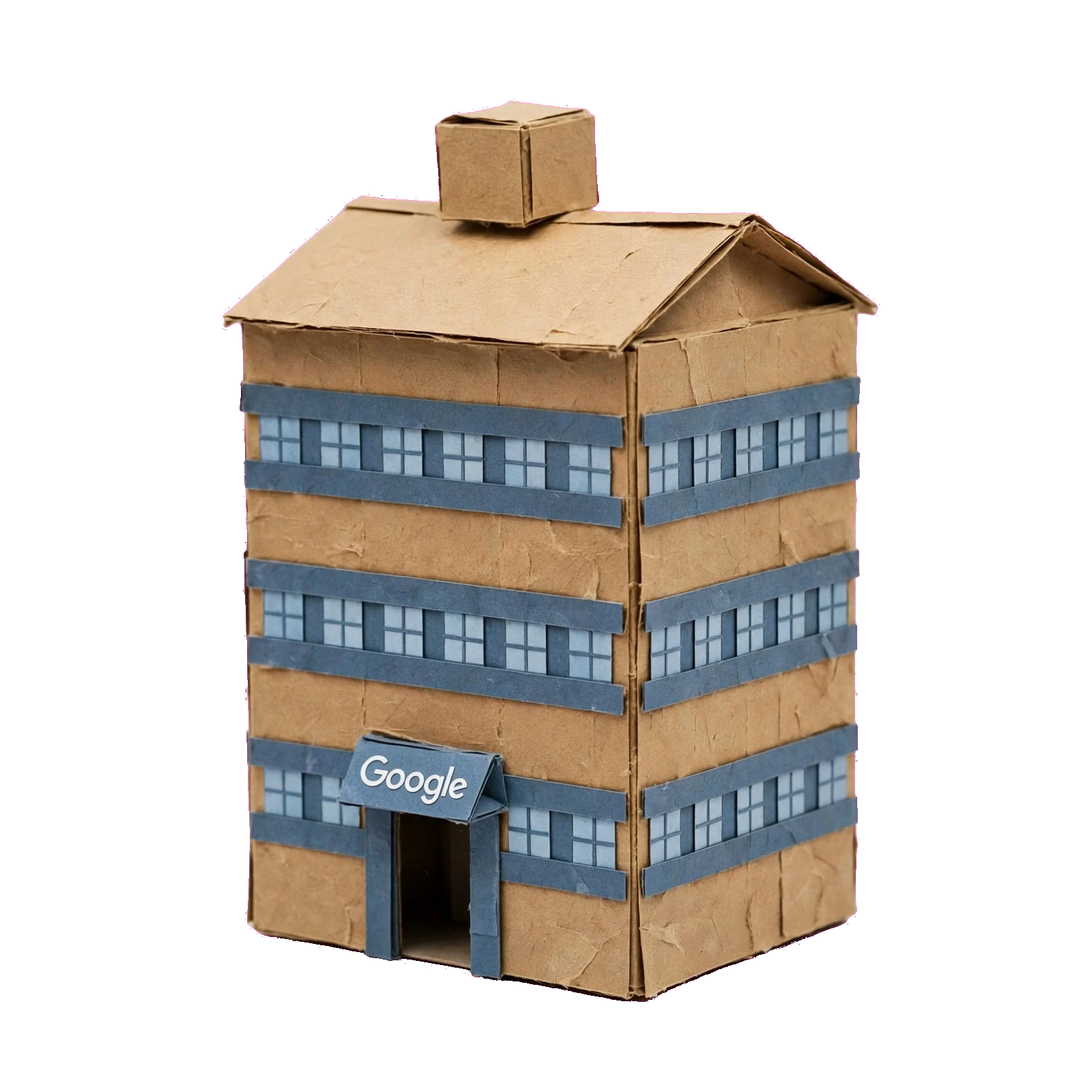
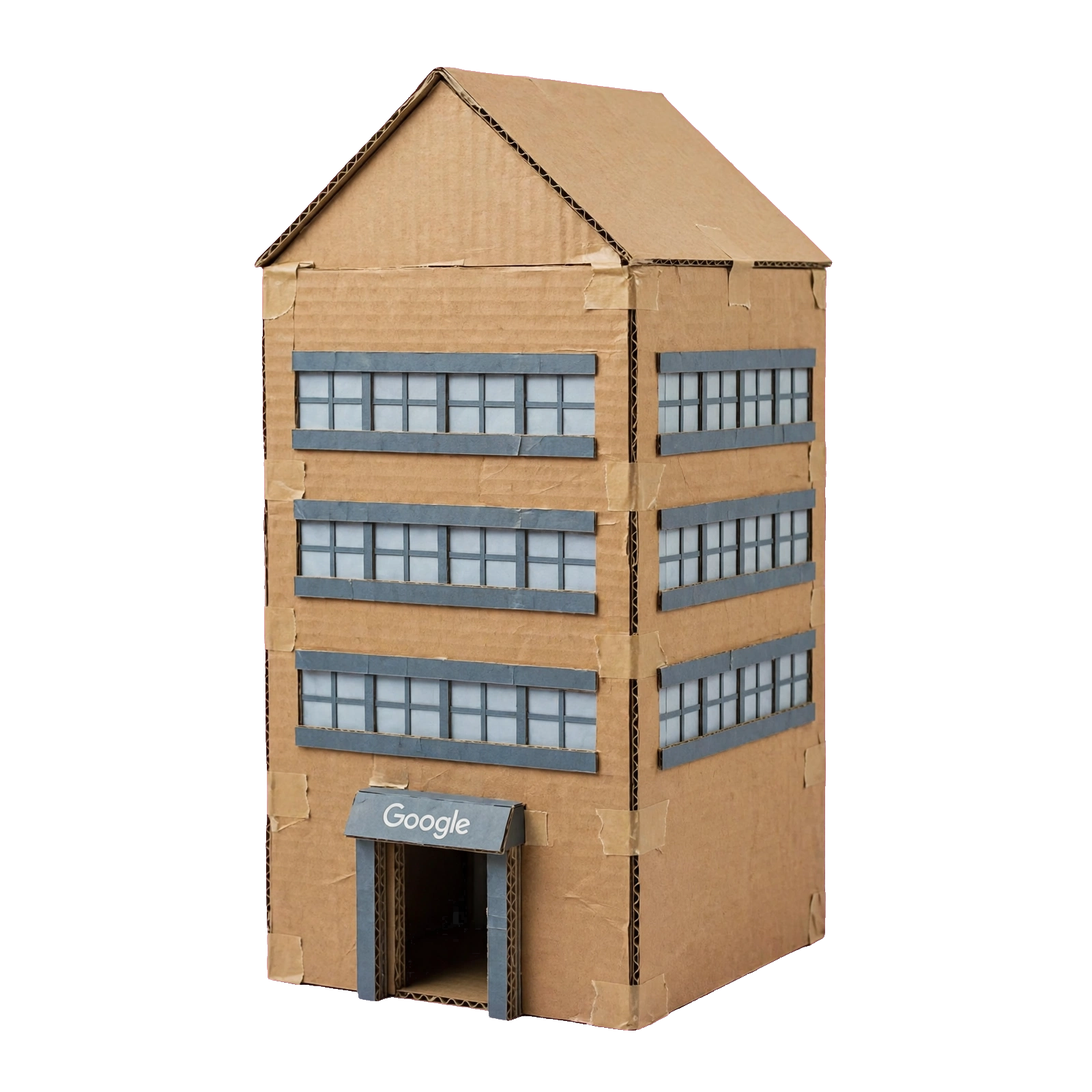
v137: no-crate building swap (seat re-derived, span travel 0.08px); slides caption updated

diff --git a/dashboard/quadrillion/index.html b/dashboard/quadrillion/index.html
@@ -2888,7 +2888,7 @@ document.getElementById('t1vclone').addEventListener('click', function () { t1Vo
 .rn-flash{left:3.59%;top:25.48%;width:92.82%;aspect-ratio:1;border-radius:50%;background:radial-gradient(circle,rgba(255,253,244,.98) 0%,rgba(255,243,214,.72) 32%,rgba(255,222,160,.28) 62%,rgba(255,222,160,0) 78%);z-index:3;opacity:0}.rn-ring{left:-10.64%;top:9.86%;width:121.29%;aspect-ratio:1;border-radius:50%;background:radial-gradient(circle,transparent calc(88% - var(--band,7%)),rgba(255,244,220,.9) 88%,transparent calc(88% + var(--band,7%)));z-index:3;opacity:0}.rn-tag{z-index:3;opacity:0}.rn-mtn{left:3.51%;top:32.83%;width:66.00%;z-index:2;transform-origin:50% 100%;opacity:0}.rn-ban{left:20.02%;top:40.35%;width:63.95%;z-index:3;transform-origin:50% 0;opacity:0}.rn-halls{left:44.60%;top:74.75%;width:52.00%;z-index:3;transform-origin:50% 100%;opacity:0}
 .rn-hall1{position:absolute;cursor:pointer;background:none;border:none;padding:0;margin:0;line-height:0;min-height:0;z-index:3;opacity:0}
 .rn-hall1 img{width:100%;height:auto;display:block}
-.rn-rib{left:47.30%;top:16.51%;width:26.00%;z-index:4;transform-origin:50% 100%;opacity:0}.rn-pile{left:41.51%;top:49.83%;width:46.00%;z-index:3;transform-origin:50% 100%;opacity:0}.rn-bld{left:21.55%;top:6.33%;width:53.22%;z-index:3;transform-origin:50% 100%;opacity:0}.rn-gword{left:26.91%;top:-6.04%;width:42.33%;z-index:4;transform-origin:50% 100%;opacity:0} /* v116: the GOOGLE word seat — subject 40.00% wide centred on the building settled centre (48.16% live), subject base at live 41.6%, hanging clear BELOW the roof subject top (34.65%) so the letters never touch the little roof box — the word floats in front of the building face, big, above its base (v116 frame cure: at the roof line the letters struck the roof box) */.rn-city{left:18.85%;top:15.77%;width:62.00%;z-index:3;transform-origin:50% 100%;opacity:0} /* v116 CURE (owner screenshots 17/18): the DIFFERENT street city, seated contained — subject spans 24.7-78.2% of stage width (inside the curtain inner edges), subject base on the platform far edge; origin 50% 100% keeps the base planted through the pose growth */.rn-b23{left:63.54%;top:15.18%;width:15.69%;z-index:5;transform-origin:50% 0;opacity:0} /* v116: the sign reads 2024 (owner years correction, executed as stated); seat re-derived from the new file subject so the SUBJECT keeps its verified size and centre */.rn-b25{left:37.33%;top:5.74%;width:38.25%;z-index:5;transform-origin:50% 0;opacity:0}.rn-hclip{position:absolute;overflow:hidden}.rn-hclip img{width:100%;height:auto;display:block}.rn-hb{left:44.60%;top:74.75%;width:52.00%;z-index:2} /* v111: during the finale (t>=29.80) both halls layers are re-seated by the pose to the stepped-down standing seat (left 50.68% · top 22.72% · width 40%) — see the halls pose */.rn-hf{left:44.60%;top:74.75%;width:52.00%;z-index:3}.rn-ring2{left:13.11%;top:44.07%;width:73.78%;z-index:1;transform-origin:50% 100%;opacity:0}.rn-toast{left:57.35%;top:51.65%;width:34.60%;z-index:3;transform-origin:50% 100%;opacity:0}.rn-tagw{position:absolute;width:7.0%;z-index:6;opacity:0;pointer-events:none}.rn-tagw img{width:100%;height:auto;display:block}.rn-tok{z-index:3;opacity:0}.rn-shards{position:absolute;inset:0;z-index:2;pointer-events:none}.rn-shard{position:absolute;pointer-events:auto;cursor:pointer;opacity:0}.rn-box{z-index:9} /* v113 CURE: the side boxes stand IN FRONT of the curtains (owner order 2026-11-05; curtains z8) */
+.rn-rib{left:47.30%;top:16.51%;width:26.00%;z-index:4;transform-origin:50% 100%;opacity:0}.rn-pile{left:41.51%;top:49.83%;width:46.00%;z-index:3;transform-origin:50% 100%;opacity:0}.rn-bld{left:23.57%;top:8.23%;width:49.86%;z-index:3;transform-origin:50% 100%;opacity:0}.rn-gword{left:26.91%;top:-6.04%;width:42.33%;z-index:4;transform-origin:50% 100%;opacity:0} /* v116: the GOOGLE word seat — subject 40.00% wide centred on the building settled centre (48.16% live), subject base at live 41.6%, hanging clear BELOW the roof subject top (34.65%) so the letters never touch the little roof box — the word floats in front of the building face, big, above its base (v116 frame cure: at the roof line the letters struck the roof box) */.rn-city{left:18.85%;top:15.77%;width:62.00%;z-index:3;transform-origin:50% 100%;opacity:0} /* v116 CURE (owner screenshots 17/18): the DIFFERENT street city, seated contained — subject spans 24.7-78.2% of stage width (inside the curtain inner edges), subject base on the platform far edge; origin 50% 100% keeps the base planted through the pose growth */.rn-b23{left:63.54%;top:15.18%;width:15.69%;z-index:5;transform-origin:50% 0;opacity:0} /* v116: the sign reads 2024 (owner years correction, executed as stated); seat re-derived from the new file subject so the SUBJECT keeps its verified size and centre */.rn-b25{left:37.33%;top:5.74%;width:38.25%;z-index:5;transform-origin:50% 0;opacity:0}.rn-hclip{position:absolute;overflow:hidden}.rn-hclip img{width:100%;height:auto;display:block}.rn-hb{left:44.60%;top:74.75%;width:52.00%;z-index:2} /* v111: during the finale (t>=29.80) both halls layers are re-seated by the pose to the stepped-down standing seat (left 50.68% · top 22.72% · width 40%) — see the halls pose */.rn-hf{left:44.60%;top:74.75%;width:52.00%;z-index:3}.rn-ring2{left:13.11%;top:44.07%;width:73.78%;z-index:1;transform-origin:50% 100%;opacity:0}.rn-toast{left:57.35%;top:51.65%;width:34.60%;z-index:3;transform-origin:50% 100%;opacity:0}.rn-tagw{position:absolute;width:7.0%;z-index:6;opacity:0;pointer-events:none}.rn-tagw img{width:100%;height:auto;display:block}.rn-tok{z-index:3;opacity:0}.rn-shards{position:absolute;inset:0;z-index:2;pointer-events:none}.rn-shard{position:absolute;pointer-events:auto;cursor:pointer;opacity:0}.rn-box{z-index:9} /* v113 CURE: the side boxes stand IN FRONT of the curtains (owner order 2026-11-05; curtains z8) */
 .rn-play{z-index:9}
 .rn-bar{position:fixed;left:0;right:0;bottom:0;z-index:66;background:rgba(10,14,22,.97);border-top:1px solid rgba(255,255,255,.16);backdrop-filter:blur(10px);-webkit-backdrop-filter:blur(10px);padding:8px 10px calc(8px + env(safe-area-inset-bottom,0px))}
 .rn-bar[hidden]{display:none}
@@ -4635,7 +4635,7 @@ function rnPose(t){
    if(elSeal){ /* v76: the PROCESSED seal — born whole in the impact frame (2.24s), rides the band's rise/settle/exit factors exactly (shared claim-centre origin), constant −8° lean (row u1-p1-processed-seal) */
      elSeal.style.opacity=t<2.34?'0':opC;
      elSeal.style.transform='translateY('+(Math.round(30*stP)/10)+'px) scale('+stS.toFixed(3)+') rotate(-8deg)'; } if(elMtn){ var mP=rnGrow(t,14.08,14.68), mO=mP, mEx=0, mS=0.85+0.15*mP, mX=0; if(t>=19.40&&t<20.58){ var mq=Math.min(1,(t-19.40)/0.5); mS=1-0.4326*mq; mX=-172*mq; } if(t>=20.58&&t<29.80){ mO=mP; mS=0.5674; mX=-172; } if(t>=29.80){ var mp7=rnGrow(t,29.80,30.30); mO=mp7; mS=0.5674; mX=-172; mEx=0; } elMtn.style.zIndex=(t>=19.40)?'9':'2'; /* v111: the mountain keeps its window layer in the finale — in front, never buried under the halls */ elMtn.style.opacity=mO.toFixed(3); elMtn.style.transform='translate('+mX.toFixed(1)+'px,'+((1-mP)*-53+mEx).toFixed(1)+'px) scale('+mS.toFixed(3)+')'; } if(elBan){ var bP=rnGrow(t,14.33,14.73), bO=0; if(t>=14.33){ bO=bP; if(t>=18.46&&t<19.40){ bO=bP*(1-Math.min(1,(t-18.46)/0.3)); } if(t>=19.40&&t<29.80){ var bq=Math.min(1,(t-19.40)/0.5); bO=bP*bq; } if(t>=29.80){ bO=0; } } elBan.style.opacity=bO.toFixed(3); if(t>=19.40&&t<29.80){ elBan.style.left='-2.44%'; elBan.style.top='85.09%'; elBan.style.width='46.05%'; } else { elBan.style.left='20.02%'; elBan.style.top='40.35%'; elBan.style.width='63.95%'; } /* v111: the banner is OUT of the finale — its moment ended at tokens; the v98-era return seat made it re-appear over everything at 29.80s */ elBan.style.transform='scaleY('+(0.3+0.7*bP).toFixed(3)+')'; } if(elHallsB&&elHallsF){ var hbP=rnGrow(t,19.40,20.05), hfP=rnGrow(t,19.72,20.37), hAll=1, h7=0; if(t>=20.58&&t<29.80){ hAll=1; } if(t>=29.80){ h7=rnGrow(t,29.80,30.20); } var hbI='inset('+(100-89.55*Math.max(hbP,h7)).toFixed(2)+'% 0% 0% '+(5.18+89.71*(1-Math.max(hbP,h7))).toFixed(2)+'%)'; var hfI='inset('+(100-74.37*Math.max(hfP,h7)).toFixed(2)+'% '+(4.11+90.71*(1-Math.max(hfP,h7))).toFixed(2)+'% 0% 0%)'; var hCmp=(t>=19.40&&t<29.80&&t>=21.08)?1:0; /* v110: the sketch pyramid owns the WHOLE window to 29.80 — the flat halls drape, which sprawled over the platform front and covered the mountain, never returns inside it */ elHallsB.style.opacity=(Math.max(hbP*hAll*hCmp,h7)).toFixed(3); elHallsB.style.clipPath=hbI; elHallsF.style.opacity=(Math.max(hfP*hAll*hCmp,h7)).toFixed(3); elHallsF.style.clipPath=hfI; if(t>=29.80){ elHallsB.style.left='42.22%'; elHallsB.style.top='22.72%'; elHallsB.style.width='37.00%'; elHallsF.style.left='42.22%'; elHallsF.style.top='22.72%'; elHallsF.style.width='37.00%'; } else { elHallsB.style.left='44.60%'; elHallsB.style.top='74.75%'; elHallsB.style.width='52.00%'; elHallsF.style.left='44.60%'; elHallsF.style.top='74.75%'; elHallsF.style.width='52.00%'; } /* v111: the finale halls stand stepped-down on the surface at the right, fully inside the frame, clear of the curtain — not draped across the stage at their reveal size */ } if(elRib){ var xP=0; if(t>=19.90&&t<29.80){ xP=rnGrow(t,19.90,20.30); } elRib.style.opacity=xP.toFixed(3); elRib.style.transform='scale('+(0.6+0.4*xP).toFixed(3)+')'; } if(elRing2){ var rgO=0; if(t>=29.80){ rgO=rnGrow(t,29.80,30.20); } elRing2.style.opacity=rgO.toFixed(3); elRing2.style.transform='scale('+(0.96+0.04*rgO).toFixed(3)+')'; } if(rnTags.length){ var tgO=0; if(t>=30.08){ tgO=rnGrow(t,30.08,30.48); } for(var gi=0;gi<rnTags.length;gi++){ var gel=rnTags[gi]; if(!gel) continue; var th=0.16+0.68*(gi/8)+0.10*Math.max(0,Math.min(1,(t-30.08)/2.17)), cx=808+480*Math.cos(Math.PI*th), cy=1210-140*Math.sin(Math.PI*th), sc=0.85+0.15*Math.sin(Math.PI*th); /* v111: the tags ride the FRONT ARC of the track only — low across the floor in front of the standing pieces, never flying into the sky */ gel.style.opacity=tgO.toFixed(3); gel.style.left=((cx-56.5*sc)/16.16).toFixed(2)+'%'; gel.style.top=((cy-358*sc)/9.09).toFixed(2)+'%'; gel.style.transform='scale('+sc.toFixed(3)+')'; } } if(elToast){ var to2=0; if(t>=36.48){ to2=rnGrow(t,36.48,36.90); } elToast.style.opacity=to2.toFixed(3); elToast.style.transform='translateY('+((1-to2)*14).toFixed(1)+'px)'; } if(elPile){ var pO=0, pY=0; if(t>=14.08&&t<18.46){ var pP=rnGrow(t,14.08,14.68); pO=pP; pY=(1-pP)*27; } elPile.style.opacity=pO.toFixed(3); elPile.style.transform='translateY('+pY.toFixed(1)+'px)'; /* v109: the pile RESTORED to P4 beside the mountain, standing on the platform surface (owner, screenshot 11: he ordered it moved + grounded, never removed and never changed; the file is byte-identical). It stays OUT of P7, per his 10:24 annotation. */ } for(var hj=0;hj<rnHalls1.length;hj++){ var hel=rnHalls1[hj]; if(!hel) continue; var hp=0; if(t>=19.40&&t<29.80){ hp=rnGrow(t,19.40+hj*0.09,19.75+hj*0.09); } hel.style.opacity=hp.toFixed(3); hel.style.transform='translateY('+((1-hp)*10).toFixed(1)+'px)'; }
-   if(elBld){ var dO=0, dS=1, dX=0, dY=0; if(t>=4.36&&t<8.53){ dO=1; dS=1; dY=65.6; } /* v136 BOXFIX (owner order 2026-11-06): the building APPEARS at its final seat at full size — entrance grow (0.85->1) and rise (+27px) removed; base pinned on the floor line for the whole solo span */ /* v114 CURE (browser sit/float test 2026-11-05 + deliverer's own frames): the settled translate was +54px, holding the building's subject base ~7.5% of stage height BELOW the platform's far edge — sunk into the deck, reading as float/clip at phone size. The building file's subject base (.917 of file) drawn from the CSS seat lands at 63.3% live; the platform far edge sits at 65.8% live; settled translate is now +20.3px so the base RESTS on the platform surface. */ else if(t>=8.53&&t<9.28){ var dq=(t-8.53)/0.75; dO=1; dS=1-0.315*dq; dX=-60*dq; dY=65.6-4.9*dq /* v135: carries the drawn-floor rest height (+65.6) into the shrink move, ending at the companions rest (+60.7) */; } else if(t>=9.28&&t<11.25){ dO=1; dS=0.685; dX=-60; dY=60.7; if(t>=10.75){ dO=1-Math.min(1,(t-10.75)/0.5); } } else if(t>=19.96&&t<29.80){ var dP2=rnGrow(t,19.96,20.26); dO=dP2; dS=0.394; dX=166; dY=56.2; } /* v114: the comparison-standing rest height shifts by the same -33.7px so the building rests on the platform in P5 too */ elBld.style.opacity=dO.toFixed(3); elBld.style.transform='translate('+dX.toFixed(1)+'px,'+dY.toFixed(1)+'px) scale('+dS.toFixed(3)+')'; var elGW=document.getElementById('rnGWord'); if(elGW){ var gwO=0, gwS=1, gwY=0; if(t>=4.36&&t<11.25){ gwO=dO; gwS=dS; gwY=dY*1.1403; } elGW.style.opacity=gwO.toFixed(3); elGW.style.transform='translate('+(dX*gwS).toFixed(1)+'px,'+gwY.toFixed(1)+'px) scale('+gwS.toFixed(3)+')'; } /* v116: the word rides the building solo standing (same growth and corrected rest offset, in its own px); gone with the building by 11.25; absent from the comparison standing */ } if(elCity){ var cP=rnGrow(t,9.28,9.83), cO=cP; if(t>=10.75){ cO=cP*(1-Math.min(1,(t-10.75)/0.5)); } elCity.style.opacity=cO.toFixed(3); elCity.style.transform='scale('+(0.88+0.12*cP).toFixed(3)+')'; } if(elB23){ var nO=0, nY=-8; if(t>=8.53&&t<10.30){ var nP=rnGrow(t,8.53,8.83); nO=nP; nY=-8*(1-nP); if(t>=10.00){ nO=nP*(1-Math.min(1,(t-10.00)/0.3)); nY=-8*Math.min(1,(t-10.00)/0.3); } } elB23.style.opacity=nO.toFixed(3); elB23.style.transform='translateY('+nY.toFixed(1)+'px)'; } if(elB25){ var vO=0, vY=-8; if(t>=10.74){ var vP=rnGrow(t,10.74,11.04); vO=vP; vY=-8*(1-vP); if(t>=11.05){ vO=vP*(1-Math.min(1,(t-11.05)/0.2)); } } elB25.style.opacity=vO.toFixed(3); elB25.style.transform='translateY('+vY.toFixed(1)+'px)'; }
+   if(elBld){ var dO=0, dS=1, dX=0, dY=0; if(t>=4.36&&t<8.53){ dO=1; dS=1; dY=65.6; } /* v136 BOXFIX (owner order 2026-11-06): the building APPEARS at its final seat at full size — entrance grow (0.85->1) and rise (+27px) removed; base pinned on the floor line for the whole solo span */ /* v137 (2026-11-06, owner order): NO-CRATE building asset swapped in — google-building-clean-v1.webp regenerated without the rooftop cube the settled A16 description prescribed (cube clause removed from the description the same day). Seat re-derived from the new file's measured subject (x .233-.763, y .061-.944 of file; was x .204-.805, y .090-.917): CSS seat left 23.57% / top 8.23% / width 49.86% (was 21.55 / 6.33 / 53.22) keeps the subject base at 259.7 stage px, the on-stage subject height (155.8px) and the subject centre identical to v136; solo dY unchanged (65.6) so the GOOGLE word keeps its exact seat; the shrink, companion and comparison offsets below are re-derived from the same subject so every standing keeps its v136 base and centre. */ /* v114 CURE (browser sit/float test 2026-11-05 + deliverer's own frames): the settled translate was +54px, holding the building's subject base ~7.5% of stage height BELOW the platform's far edge — sunk into the deck, reading as float/clip at phone size. The building file's subject base (.917 of file) drawn from the CSS seat lands at 63.3% live; the platform far edge sits at 65.8% live; settled translate is now +20.3px so the base RESTS on the platform surface. */ else if(t>=8.53&&t<9.28){ var dq=(t-8.53)/0.75; dO=1; dS=1-0.315*dq; dX=-60.4*dq; dY=65.6-3.1*dq /* v135: carries the drawn-floor rest height (+65.6) into the shrink move, ending at the companions rest (+60.7) — v137: end offset re-derived for the no-crate file (+62.5), slide -60.4 */; } else if(t>=9.28&&t<11.25){ dO=1; dS=0.685; dX=-60.4; dY=62.5; if(t>=10.75){ dO=1-Math.min(1,(t-10.75)/0.5); } } else if(t>=19.96&&t<29.80){ var dP2=rnGrow(t,19.96,20.26); dO=dP2; dS=0.394; dX=165.3; dY=59.7; } /* v114: the comparison-standing rest height shifts by the same -33.7px so the building rests on the platform in P5 too */ elBld.style.opacity=dO.toFixed(3); elBld.style.transform='translate('+dX.toFixed(1)+'px,'+dY.toFixed(1)+'px) scale('+dS.toFixed(3)+')'; var elGW=document.getElementById('rnGWord'); if(elGW){ var gwO=0, gwS=1, gwY=0; if(t>=4.36&&t<11.25){ gwO=dO; gwS=dS; gwY=dY*1.1403; } elGW.style.opacity=gwO.toFixed(3); elGW.style.transform='translate('+(dX*gwS).toFixed(1)+'px,'+gwY.toFixed(1)+'px) scale('+gwS.toFixed(3)+')'; } /* v116: the word rides the building solo standing (same growth and corrected rest offset, in its own px); gone with the building by 11.25; absent from the comparison standing */ } if(elCity){ var cP=rnGrow(t,9.28,9.83), cO=cP; if(t>=10.75){ cO=cP*(1-Math.min(1,(t-10.75)/0.5)); } elCity.style.opacity=cO.toFixed(3); elCity.style.transform='scale('+(0.88+0.12*cP).toFixed(3)+')'; } if(elB23){ var nO=0, nY=-8; if(t>=8.53&&t<10.30){ var nP=rnGrow(t,8.53,8.83); nO=nP; nY=-8*(1-nP); if(t>=10.00){ nO=nP*(1-Math.min(1,(t-10.00)/0.3)); nY=-8*Math.min(1,(t-10.00)/0.3); } } elB23.style.opacity=nO.toFixed(3); elB23.style.transform='translateY('+nY.toFixed(1)+'px)'; } if(elB25){ var vO=0, vY=-8; if(t>=10.74){ var vP=rnGrow(t,10.74,11.04); vO=vP; vY=-8*(1-vP); if(t>=11.05){ vO=vP*(1-Math.min(1,(t-11.05)/0.2)); } } elB25.style.opacity=vO.toFixed(3); elB25.style.transform='translateY('+vY.toFixed(1)+'px)'; }
  }
  var rnAudio=document.getElementById('wlAudio'); /* v71 (stabilization): the stage player drives the narration audio directly — play starts it, pause stops it, seeks re-point it */
    function rnGlyphs(){var g=rnPlaying?'\u275a\u275a':'\u25b6'; rbPlay.textContent=g; play.textContent=g; play.style.display=(rnPlaying||rnStarted)?'none':'';}

diff --git a/quadrillion/index.html b/quadrillion/index.html
@@ -2888,7 +2888,7 @@ document.getElementById('t1vclone').addEventListener('click', function () { t1Vo
 .rn-flash{left:3.59%;top:25.48%;width:92.82%;aspect-ratio:1;border-radius:50%;background:radial-gradient(circle,rgba(255,253,244,.98) 0%,rgba(255,243,214,.72) 32%,rgba(255,222,160,.28) 62%,rgba(255,222,160,0) 78%);z-index:3;opacity:0}.rn-ring{left:-10.64%;top:9.86%;width:121.29%;aspect-ratio:1;border-radius:50%;background:radial-gradient(circle,transparent calc(88% - var(--band,7%)),rgba(255,244,220,.9) 88%,transparent calc(88% + var(--band,7%)));z-index:3;opacity:0}.rn-tag{z-index:3;opacity:0}.rn-mtn{left:3.51%;top:32.83%;width:66.00%;z-index:2;transform-origin:50% 100%;opacity:0}.rn-ban{left:20.02%;top:40.35%;width:63.95%;z-index:3;transform-origin:50% 0;opacity:0}.rn-halls{left:44.60%;top:74.75%;width:52.00%;z-index:3;transform-origin:50% 100%;opacity:0}
 .rn-hall1{position:absolute;cursor:pointer;background:none;border:none;padding:0;margin:0;line-height:0;min-height:0;z-index:3;opacity:0}
 .rn-hall1 img{width:100%;height:auto;display:block}
-.rn-rib{left:47.30%;top:16.51%;width:26.00%;z-index:4;transform-origin:50% 100%;opacity:0}.rn-pile{left:41.51%;top:49.83%;width:46.00%;z-index:3;transform-origin:50% 100%;opacity:0}.rn-bld{left:21.55%;top:6.33%;width:53.22%;z-index:3;transform-origin:50% 100%;opacity:0}.rn-gword{left:26.91%;top:-6.04%;width:42.33%;z-index:4;transform-origin:50% 100%;opacity:0} /* v116: the GOOGLE word seat — subject 40.00% wide centred on the building settled centre (48.16% live), subject base at live 41.6%, hanging clear BELOW the roof subject top (34.65%) so the letters never touch the little roof box — the word floats in front of the building face, big, above its base (v116 frame cure: at the roof line the letters struck the roof box) */.rn-city{left:18.85%;top:15.77%;width:62.00%;z-index:3;transform-origin:50% 100%;opacity:0} /* v116 CURE (owner screenshots 17/18): the DIFFERENT street city, seated contained — subject spans 24.7-78.2% of stage width (inside the curtain inner edges), subject base on the platform far edge; origin 50% 100% keeps the base planted through the pose growth */.rn-b23{left:63.54%;top:15.18%;width:15.69%;z-index:5;transform-origin:50% 0;opacity:0} /* v116: the sign reads 2024 (owner years correction, executed as stated); seat re-derived from the new file subject so the SUBJECT keeps its verified size and centre */.rn-b25{left:37.33%;top:5.74%;width:38.25%;z-index:5;transform-origin:50% 0;opacity:0}.rn-hclip{position:absolute;overflow:hidden}.rn-hclip img{width:100%;height:auto;display:block}.rn-hb{left:44.60%;top:74.75%;width:52.00%;z-index:2} /* v111: during the finale (t>=29.80) both halls layers are re-seated by the pose to the stepped-down standing seat (left 50.68% · top 22.72% · width 40%) — see the halls pose */.rn-hf{left:44.60%;top:74.75%;width:52.00%;z-index:3}.rn-ring2{left:13.11%;top:44.07%;width:73.78%;z-index:1;transform-origin:50% 100%;opacity:0}.rn-toast{left:57.35%;top:51.65%;width:34.60%;z-index:3;transform-origin:50% 100%;opacity:0}.rn-tagw{position:absolute;width:7.0%;z-index:6;opacity:0;pointer-events:none}.rn-tagw img{width:100%;height:auto;display:block}.rn-tok{z-index:3;opacity:0}.rn-shards{position:absolute;inset:0;z-index:2;pointer-events:none}.rn-shard{position:absolute;pointer-events:auto;cursor:pointer;opacity:0}.rn-box{z-index:9} /* v113 CURE: the side boxes stand IN FRONT of the curtains (owner order 2026-11-05; curtains z8) */
+.rn-rib{left:47.30%;top:16.51%;width:26.00%;z-index:4;transform-origin:50% 100%;opacity:0}.rn-pile{left:41.51%;top:49.83%;width:46.00%;z-index:3;transform-origin:50% 100%;opacity:0}.rn-bld{left:23.57%;top:8.23%;width:49.86%;z-index:3;transform-origin:50% 100%;opacity:0}.rn-gword{left:26.91%;top:-6.04%;width:42.33%;z-index:4;transform-origin:50% 100%;opacity:0} /* v116: the GOOGLE word seat — subject 40.00% wide centred on the building settled centre (48.16% live), subject base at live 41.6%, hanging clear BELOW the roof subject top (34.65%) so the letters never touch the little roof box — the word floats in front of the building face, big, above its base (v116 frame cure: at the roof line the letters struck the roof box) */.rn-city{left:18.85%;top:15.77%;width:62.00%;z-index:3;transform-origin:50% 100%;opacity:0} /* v116 CURE (owner screenshots 17/18): the DIFFERENT street city, seated contained — subject spans 24.7-78.2% of stage width (inside the curtain inner edges), subject base on the platform far edge; origin 50% 100% keeps the base planted through the pose growth */.rn-b23{left:63.54%;top:15.18%;width:15.69%;z-index:5;transform-origin:50% 0;opacity:0} /* v116: the sign reads 2024 (owner years correction, executed as stated); seat re-derived from the new file subject so the SUBJECT keeps its verified size and centre */.rn-b25{left:37.33%;top:5.74%;width:38.25%;z-index:5;transform-origin:50% 0;opacity:0}.rn-hclip{position:absolute;overflow:hidden}.rn-hclip img{width:100%;height:auto;display:block}.rn-hb{left:44.60%;top:74.75%;width:52.00%;z-index:2} /* v111: during the finale (t>=29.80) both halls layers are re-seated by the pose to the stepped-down standing seat (left 50.68% · top 22.72% · width 40%) — see the halls pose */.rn-hf{left:44.60%;top:74.75%;width:52.00%;z-index:3}.rn-ring2{left:13.11%;top:44.07%;width:73.78%;z-index:1;transform-origin:50% 100%;opacity:0}.rn-toast{left:57.35%;top:51.65%;width:34.60%;z-index:3;transform-origin:50% 100%;opacity:0}.rn-tagw{position:absolute;width:7.0%;z-index:6;opacity:0;pointer-events:none}.rn-tagw img{width:100%;height:auto;display:block}.rn-tok{z-index:3;opacity:0}.rn-shards{position:absolute;inset:0;z-index:2;pointer-events:none}.rn-shard{position:absolute;pointer-events:auto;cursor:pointer;opacity:0}.rn-box{z-index:9} /* v113 CURE: the side boxes stand IN FRONT of the curtains (owner order 2026-11-05; curtains z8) */
 .rn-play{z-index:9}
 .rn-bar{position:fixed;left:0;right:0;bottom:0;z-index:66;background:rgba(10,14,22,.97);border-top:1px solid rgba(255,255,255,.16);backdrop-filter:blur(10px);-webkit-backdrop-filter:blur(10px);padding:8px 10px calc(8px + env(safe-area-inset-bottom,0px))}
 .rn-bar[hidden]{display:none}
@@ -4635,7 +4635,7 @@ function rnPose(t){
    if(elSeal){ /* v76: the PROCESSED seal — born whole in the impact frame (2.24s), rides the band's rise/settle/exit factors exactly (shared claim-centre origin), constant −8° lean (row u1-p1-processed-seal) */
      elSeal.style.opacity=t<2.34?'0':opC;
      elSeal.style.transform='translateY('+(Math.round(30*stP)/10)+'px) scale('+stS.toFixed(3)+') rotate(-8deg)'; } if(elMtn){ var mP=rnGrow(t,14.08,14.68), mO=mP, mEx=0, mS=0.85+0.15*mP, mX=0; if(t>=19.40&&t<20.58){ var mq=Math.min(1,(t-19.40)/0.5); mS=1-0.4326*mq; mX=-172*mq; } if(t>=20.58&&t<29.80){ mO=mP; mS=0.5674; mX=-172; } if(t>=29.80){ var mp7=rnGrow(t,29.80,30.30); mO=mp7; mS=0.5674; mX=-172; mEx=0; } elMtn.style.zIndex=(t>=19.40)?'9':'2'; /* v111: the mountain keeps its window layer in the finale — in front, never buried under the halls */ elMtn.style.opacity=mO.toFixed(3); elMtn.style.transform='translate('+mX.toFixed(1)+'px,'+((1-mP)*-53+mEx).toFixed(1)+'px) scale('+mS.toFixed(3)+')'; } if(elBan){ var bP=rnGrow(t,14.33,14.73), bO=0; if(t>=14.33){ bO=bP; if(t>=18.46&&t<19.40){ bO=bP*(1-Math.min(1,(t-18.46)/0.3)); } if(t>=19.40&&t<29.80){ var bq=Math.min(1,(t-19.40)/0.5); bO=bP*bq; } if(t>=29.80){ bO=0; } } elBan.style.opacity=bO.toFixed(3); if(t>=19.40&&t<29.80){ elBan.style.left='-2.44%'; elBan.style.top='85.09%'; elBan.style.width='46.05%'; } else { elBan.style.left='20.02%'; elBan.style.top='40.35%'; elBan.style.width='63.95%'; } /* v111: the banner is OUT of the finale — its moment ended at tokens; the v98-era return seat made it re-appear over everything at 29.80s */ elBan.style.transform='scaleY('+(0.3+0.7*bP).toFixed(3)+')'; } if(elHallsB&&elHallsF){ var hbP=rnGrow(t,19.40,20.05), hfP=rnGrow(t,19.72,20.37), hAll=1, h7=0; if(t>=20.58&&t<29.80){ hAll=1; } if(t>=29.80){ h7=rnGrow(t,29.80,30.20); } var hbI='inset('+(100-89.55*Math.max(hbP,h7)).toFixed(2)+'% 0% 0% '+(5.18+89.71*(1-Math.max(hbP,h7))).toFixed(2)+'%)'; var hfI='inset('+(100-74.37*Math.max(hfP,h7)).toFixed(2)+'% '+(4.11+90.71*(1-Math.max(hfP,h7))).toFixed(2)+'% 0% 0%)'; var hCmp=(t>=19.40&&t<29.80&&t>=21.08)?1:0; /* v110: the sketch pyramid owns the WHOLE window to 29.80 — the flat halls drape, which sprawled over the platform front and covered the mountain, never returns inside it */ elHallsB.style.opacity=(Math.max(hbP*hAll*hCmp,h7)).toFixed(3); elHallsB.style.clipPath=hbI; elHallsF.style.opacity=(Math.max(hfP*hAll*hCmp,h7)).toFixed(3); elHallsF.style.clipPath=hfI; if(t>=29.80){ elHallsB.style.left='42.22%'; elHallsB.style.top='22.72%'; elHallsB.style.width='37.00%'; elHallsF.style.left='42.22%'; elHallsF.style.top='22.72%'; elHallsF.style.width='37.00%'; } else { elHallsB.style.left='44.60%'; elHallsB.style.top='74.75%'; elHallsB.style.width='52.00%'; elHallsF.style.left='44.60%'; elHallsF.style.top='74.75%'; elHallsF.style.width='52.00%'; } /* v111: the finale halls stand stepped-down on the surface at the right, fully inside the frame, clear of the curtain — not draped across the stage at their reveal size */ } if(elRib){ var xP=0; if(t>=19.90&&t<29.80){ xP=rnGrow(t,19.90,20.30); } elRib.style.opacity=xP.toFixed(3); elRib.style.transform='scale('+(0.6+0.4*xP).toFixed(3)+')'; } if(elRing2){ var rgO=0; if(t>=29.80){ rgO=rnGrow(t,29.80,30.20); } elRing2.style.opacity=rgO.toFixed(3); elRing2.style.transform='scale('+(0.96+0.04*rgO).toFixed(3)+')'; } if(rnTags.length){ var tgO=0; if(t>=30.08){ tgO=rnGrow(t,30.08,30.48); } for(var gi=0;gi<rnTags.length;gi++){ var gel=rnTags[gi]; if(!gel) continue; var th=0.16+0.68*(gi/8)+0.10*Math.max(0,Math.min(1,(t-30.08)/2.17)), cx=808+480*Math.cos(Math.PI*th), cy=1210-140*Math.sin(Math.PI*th), sc=0.85+0.15*Math.sin(Math.PI*th); /* v111: the tags ride the FRONT ARC of the track only — low across the floor in front of the standing pieces, never flying into the sky */ gel.style.opacity=tgO.toFixed(3); gel.style.left=((cx-56.5*sc)/16.16).toFixed(2)+'%'; gel.style.top=((cy-358*sc)/9.09).toFixed(2)+'%'; gel.style.transform='scale('+sc.toFixed(3)+')'; } } if(elToast){ var to2=0; if(t>=36.48){ to2=rnGrow(t,36.48,36.90); } elToast.style.opacity=to2.toFixed(3); elToast.style.transform='translateY('+((1-to2)*14).toFixed(1)+'px)'; } if(elPile){ var pO=0, pY=0; if(t>=14.08&&t<18.46){ var pP=rnGrow(t,14.08,14.68); pO=pP; pY=(1-pP)*27; } elPile.style.opacity=pO.toFixed(3); elPile.style.transform='translateY('+pY.toFixed(1)+'px)'; /* v109: the pile RESTORED to P4 beside the mountain, standing on the platform surface (owner, screenshot 11: he ordered it moved + grounded, never removed and never changed; the file is byte-identical). It stays OUT of P7, per his 10:24 annotation. */ } for(var hj=0;hj<rnHalls1.length;hj++){ var hel=rnHalls1[hj]; if(!hel) continue; var hp=0; if(t>=19.40&&t<29.80){ hp=rnGrow(t,19.40+hj*0.09,19.75+hj*0.09); } hel.style.opacity=hp.toFixed(3); hel.style.transform='translateY('+((1-hp)*10).toFixed(1)+'px)'; }
-   if(elBld){ var dO=0, dS=1, dX=0, dY=0; if(t>=4.36&&t<8.53){ dO=1; dS=1; dY=65.6; } /* v136 BOXFIX (owner order 2026-11-06): the building APPEARS at its final seat at full size — entrance grow (0.85->1) and rise (+27px) removed; base pinned on the floor line for the whole solo span */ /* v114 CURE (browser sit/float test 2026-11-05 + deliverer's own frames): the settled translate was +54px, holding the building's subject base ~7.5% of stage height BELOW the platform's far edge — sunk into the deck, reading as float/clip at phone size. The building file's subject base (.917 of file) drawn from the CSS seat lands at 63.3% live; the platform far edge sits at 65.8% live; settled translate is now +20.3px so the base RESTS on the platform surface. */ else if(t>=8.53&&t<9.28){ var dq=(t-8.53)/0.75; dO=1; dS=1-0.315*dq; dX=-60*dq; dY=65.6-4.9*dq /* v135: carries the drawn-floor rest height (+65.6) into the shrink move, ending at the companions rest (+60.7) */; } else if(t>=9.28&&t<11.25){ dO=1; dS=0.685; dX=-60; dY=60.7; if(t>=10.75){ dO=1-Math.min(1,(t-10.75)/0.5); } } else if(t>=19.96&&t<29.80){ var dP2=rnGrow(t,19.96,20.26); dO=dP2; dS=0.394; dX=166; dY=56.2; } /* v114: the comparison-standing rest height shifts by the same -33.7px so the building rests on the platform in P5 too */ elBld.style.opacity=dO.toFixed(3); elBld.style.transform='translate('+dX.toFixed(1)+'px,'+dY.toFixed(1)+'px) scale('+dS.toFixed(3)+')'; var elGW=document.getElementById('rnGWord'); if(elGW){ var gwO=0, gwS=1, gwY=0; if(t>=4.36&&t<11.25){ gwO=dO; gwS=dS; gwY=dY*1.1403; } elGW.style.opacity=gwO.toFixed(3); elGW.style.transform='translate('+(dX*gwS).toFixed(1)+'px,'+gwY.toFixed(1)+'px) scale('+gwS.toFixed(3)+')'; } /* v116: the word rides the building solo standing (same growth and corrected rest offset, in its own px); gone with the building by 11.25; absent from the comparison standing */ } if(elCity){ var cP=rnGrow(t,9.28,9.83), cO=cP; if(t>=10.75){ cO=cP*(1-Math.min(1,(t-10.75)/0.5)); } elCity.style.opacity=cO.toFixed(3); elCity.style.transform='scale('+(0.88+0.12*cP).toFixed(3)+')'; } if(elB23){ var nO=0, nY=-8; if(t>=8.53&&t<10.30){ var nP=rnGrow(t,8.53,8.83); nO=nP; nY=-8*(1-nP); if(t>=10.00){ nO=nP*(1-Math.min(1,(t-10.00)/0.3)); nY=-8*Math.min(1,(t-10.00)/0.3); } } elB23.style.opacity=nO.toFixed(3); elB23.style.transform='translateY('+nY.toFixed(1)+'px)'; } if(elB25){ var vO=0, vY=-8; if(t>=10.74){ var vP=rnGrow(t,10.74,11.04); vO=vP; vY=-8*(1-vP); if(t>=11.05){ vO=vP*(1-Math.min(1,(t-11.05)/0.2)); } } elB25.style.opacity=vO.toFixed(3); elB25.style.transform='translateY('+vY.toFixed(1)+'px)'; }
+   if(elBld){ var dO=0, dS=1, dX=0, dY=0; if(t>=4.36&&t<8.53){ dO=1; dS=1; dY=65.6; } /* v136 BOXFIX (owner order 2026-11-06): the building APPEARS at its final seat at full size — entrance grow (0.85->1) and rise (+27px) removed; base pinned on the floor line for the whole solo span */ /* v137 (2026-11-06, owner order): NO-CRATE building asset swapped in — google-building-clean-v1.webp regenerated without the rooftop cube the settled A16 description prescribed (cube clause removed from the description the same day). Seat re-derived from the new file's measured subject (x .233-.763, y .061-.944 of file; was x .204-.805, y .090-.917): CSS seat left 23.57% / top 8.23% / width 49.86% (was 21.55 / 6.33 / 53.22) keeps the subject base at 259.7 stage px, the on-stage subject height (155.8px) and the subject centre identical to v136; solo dY unchanged (65.6) so the GOOGLE word keeps its exact seat; the shrink, companion and comparison offsets below are re-derived from the same subject so every standing keeps its v136 base and centre. */ /* v114 CURE (browser sit/float test 2026-11-05 + deliverer's own frames): the settled translate was +54px, holding the building's subject base ~7.5% of stage height BELOW the platform's far edge — sunk into the deck, reading as float/clip at phone size. The building file's subject base (.917 of file) drawn from the CSS seat lands at 63.3% live; the platform far edge sits at 65.8% live; settled translate is now +20.3px so the base RESTS on the platform surface. */ else if(t>=8.53&&t<9.28){ var dq=(t-8.53)/0.75; dO=1; dS=1-0.315*dq; dX=-60.4*dq; dY=65.6-3.1*dq /* v135: carries the drawn-floor rest height (+65.6) into the shrink move, ending at the companions rest (+60.7) — v137: end offset re-derived for the no-crate file (+62.5), slide -60.4 */; } else if(t>=9.28&&t<11.25){ dO=1; dS=0.685; dX=-60.4; dY=62.5; if(t>=10.75){ dO=1-Math.min(1,(t-10.75)/0.5); } } else if(t>=19.96&&t<29.80){ var dP2=rnGrow(t,19.96,20.26); dO=dP2; dS=0.394; dX=165.3; dY=59.7; } /* v114: the comparison-standing rest height shifts by the same -33.7px so the building rests on the platform in P5 too */ elBld.style.opacity=dO.toFixed(3); elBld.style.transform='translate('+dX.toFixed(1)+'px,'+dY.toFixed(1)+'px) scale('+dS.toFixed(3)+')'; var elGW=document.getElementById('rnGWord'); if(elGW){ var gwO=0, gwS=1, gwY=0; if(t>=4.36&&t<11.25){ gwO=dO; gwS=dS; gwY=dY*1.1403; } elGW.style.opacity=gwO.toFixed(3); elGW.style.transform='translate('+(dX*gwS).toFixed(1)+'px,'+gwY.toFixed(1)+'px) scale('+gwS.toFixed(3)+')'; } /* v116: the word rides the building solo standing (same growth and corrected rest offset, in its own px); gone with the building by 11.25; absent from the comparison standing */ } if(elCity){ var cP=rnGrow(t,9.28,9.83), cO=cP; if(t>=10.75){ cO=cP*(1-Math.min(1,(t-10.75)/0.5)); } elCity.style.opacity=cO.toFixed(3); elCity.style.transform='scale('+(0.88+0.12*cP).toFixed(3)+')'; } if(elB23){ var nO=0, nY=-8; if(t>=8.53&&t<10.30){ var nP=rnGrow(t,8.53,8.83); nO=nP; nY=-8*(1-nP); if(t>=10.00){ nO=nP*(1-Math.min(1,(t-10.00)/0.3)); nY=-8*Math.min(1,(t-10.00)/0.3); } } elB23.style.opacity=nO.toFixed(3); elB23.style.transform='translateY('+nY.toFixed(1)+'px)'; } if(elB25){ var vO=0, vY=-8; if(t>=10.74){ var vP=rnGrow(t,10.74,11.04); vO=vP; vY=-8*(1-vP); if(t>=11.05){ vO=vP*(1-Math.min(1,(t-11.05)/0.2)); } } elB25.style.opacity=vO.toFixed(3); elB25.style.transform='translateY('+vY.toFixed(1)+'px)'; }
  }
  var rnAudio=document.getElementById('wlAudio'); /* v71 (stabilization): the stage player drives the narration audio directly — play starts it, pause stops it, seeks re-point it */
    function rnGlyphs(){var g=rnPlaying?'\u275a\u275a':'\u25b6'; rbPlay.textContent=g; play.textContent=g; play.style.display=(rnPlaying||rnStarted)?'none':'';}

diff --git a/dashboard/quadrillion/cycle1-slides.html b/dashboard/quadrillion/cycle1-slides.html
@@ -72,7 +72,7 @@
 <div class="cap"><b>4.15 s — THE CLAIM FADES.</b> The whole group fades together as the next beat of the film begins.</div></div>
 
 <div class="slide"><img src="frames/cap-520.png" alt="Frame at 5.20 s">
-<div class="cap"><b>5.20 s — THE BUILDING.</b> The Google building stands at full size on the platform — it appears at its seat and stays; it does not grow or rise. GOOGLE stands above it. One open item: a small crate is baked onto its roof inside the artwork itself — a clean replacement is being made; the seat and size here are final.</div></div>
+<div class="cap"><b>5.20 s — THE BUILDING.</b> The Google building stands at full size on the platform — it appears at its seat and stays; it does not grow or rise. GOOGLE stands above it, clear of the roof. The roof is bare: the crate that was baked into the old artwork is gone — this is the clean replacement building, seated to the same height and centre.</div></div>
 
 <div class="slide"><div class="final"><b>WHAT CHANGED IN THIS PASS</b>
 <ul>
@@ -80,7 +80,8 @@
 <li>The building floated, grew and rose on entry. It now appears at its final seat, at full size, and stays.</li>
 <li>The calendar floated below the platform. It now stands on the stage for its whole moment.</li>
 <li>The stamp appeared at the wrong times in the old frames. In the film it acts once, at its word “processed” — frame 2.45 s shows the moment.</li>
-<li>Still open: one shard crosses the left frame edge at 1.10–1.45 s (the shard re-aim), and the crate baked onto the building's roof (a clean artwork replacement is being made).</li>
+<li>The crate baked onto the building's roof is gone — the building artwork was replaced with a clean generation (the old written description itself prescribed a "small rooftop cube"; that clause has been removed from the record).</li>
+<li>Still open: one shard crosses the left frame edge at 1.10–1.45 s (the shard re-aim, D4).</li>
 </ul></div></div>
 
 <div class="honest"><b>What these are:</b> frames captured from the actual film at phone size, after the fixes above. The previous slideshow was composed from plan numbers and has been withdrawn — every frame here is the film itself, and every element in it was approved where it stands.</div>

diff --git a/quadrillion/cycle1-slides.html b/quadrillion/cycle1-slides.html
@@ -72,7 +72,7 @@
 <div class="cap"><b>4.15 s — THE CLAIM FADES.</b> The whole group fades together as the next beat of the film begins.</div></div>
 
 <div class="slide"><img src="frames/cap-520.png" alt="Frame at 5.20 s">
-<div class="cap"><b>5.20 s — THE BUILDING.</b> The Google building stands at full size on the platform — it appears at its seat and stays; it does not grow or rise. GOOGLE stands above it. One open item: a small crate is baked onto its roof inside the artwork itself — a clean replacement is being made; the seat and size here are final.</div></div>
+<div class="cap"><b>5.20 s — THE BUILDING.</b> The Google building stands at full size on the platform — it appears at its seat and stays; it does not grow or rise. GOOGLE stands above it, clear of the roof. The roof is bare: the crate that was baked into the old artwork is gone — this is the clean replacement building, seated to the same height and centre.</div></div>
 
 <div class="slide"><div class="final"><b>WHAT CHANGED IN THIS PASS</b>
 <ul>
@@ -80,7 +80,8 @@
 <li>The building floated, grew and rose on entry. It now appears at its final seat, at full size, and stays.</li>
 <li>The calendar floated below the platform. It now stands on the stage for its whole moment.</li>
 <li>The stamp appeared at the wrong times in the old frames. In the film it acts once, at its word “processed” — frame 2.45 s shows the moment.</li>
-<li>Still open: one shard crosses the left frame edge at 1.10–1.45 s (the shard re-aim), and the crate baked onto the building's roof (a clean artwork replacement is being made).</li>
+<li>The crate baked onto the building's roof is gone — the building artwork was replaced with a clean generation (the old written description itself prescribed a "small rooftop cube"; that clause has been removed from the record).</li>
+<li>Still open: one shard crosses the left frame edge at 1.10–1.45 s (the shard re-aim, D4).</li>
 </ul></div></div>
 
 <div class="honest"><b>What these are:</b> frames captured from the actual film at phone size, after the fixes above. The previous slideshow was composed from plan numbers and has been withdrawn — every frame here is the film itself, and every element in it was approved where it stands.</div>
